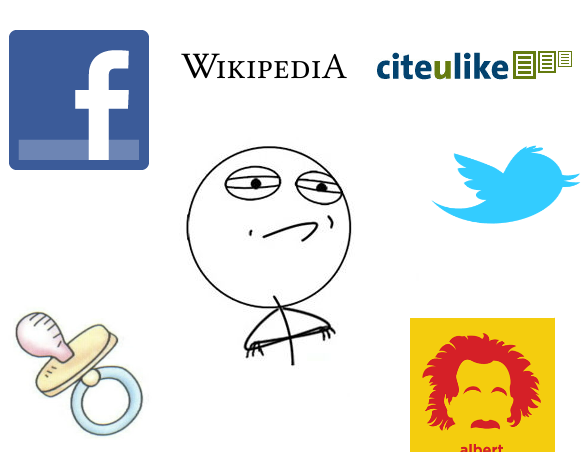
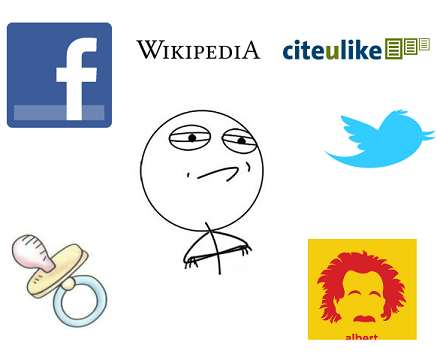
resize images and fix

diff --git a/ICL2012/poster/index.htm b/ICL2012/poster/index.htm
@@ -87,7 +87,7 @@
 				<p>The Educator connects with his Facebook and Twitter profile and integrates information. It discovers that he typically reads at the college level and favors articles high in technical content.Nick's Educator then begins searching the web for related articles, developing a knowledge sequence progressing from basic Wikipedia articles to pop media journalism to Google Scholar citations for the theoretical underpinnings of the work.</p>
 			</section>
 			<div class="image">
-				<img src="img/initial.png" alt="initial design" width="350px" height="200x" /> 
+				<img src="img/initial.png" alt="initial design" /> 
 			</div>
 		</div>
 		<div id="right" class="col">
